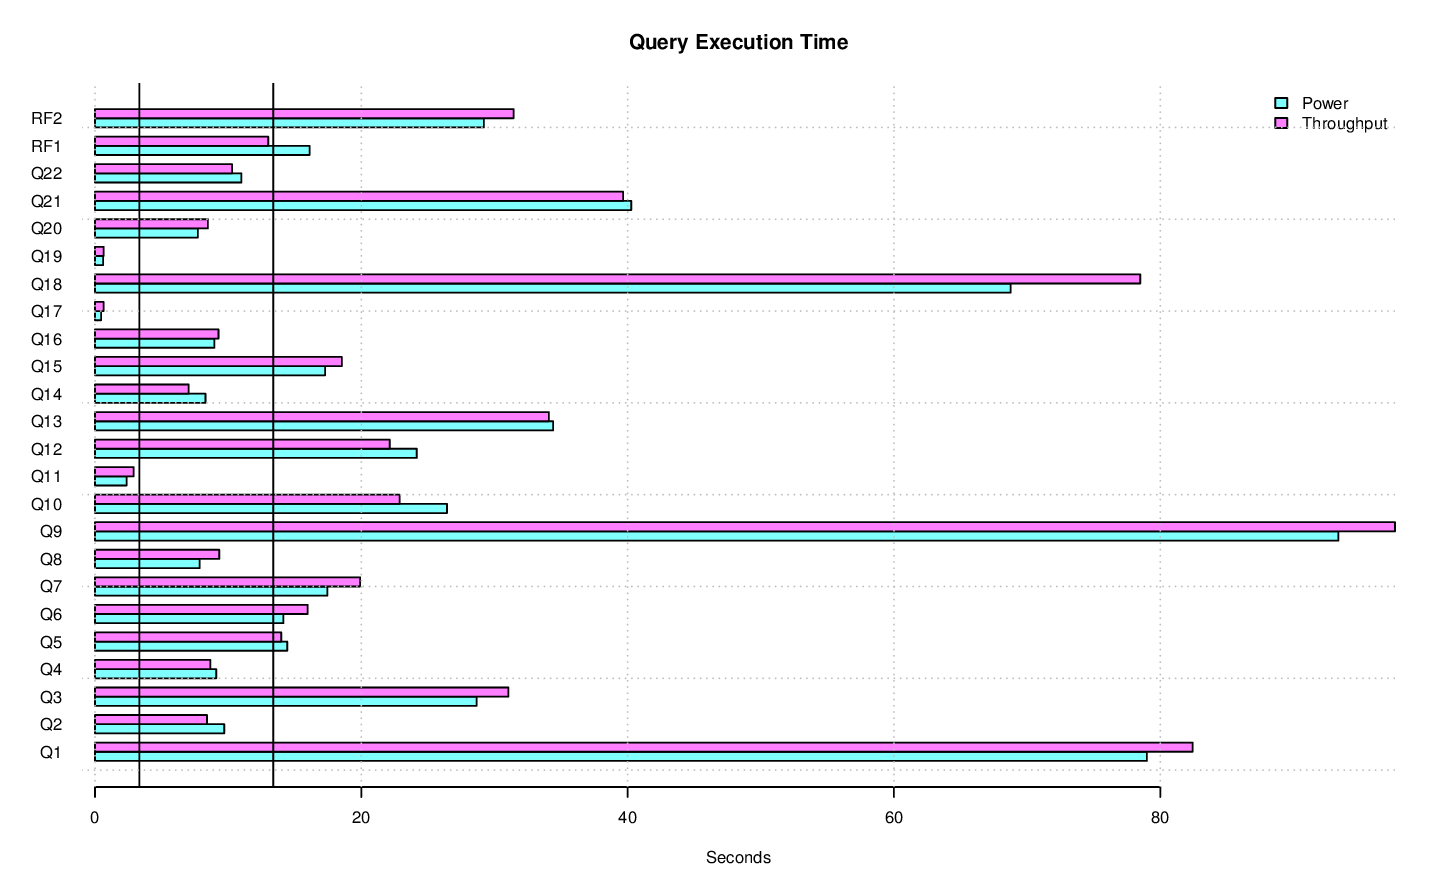
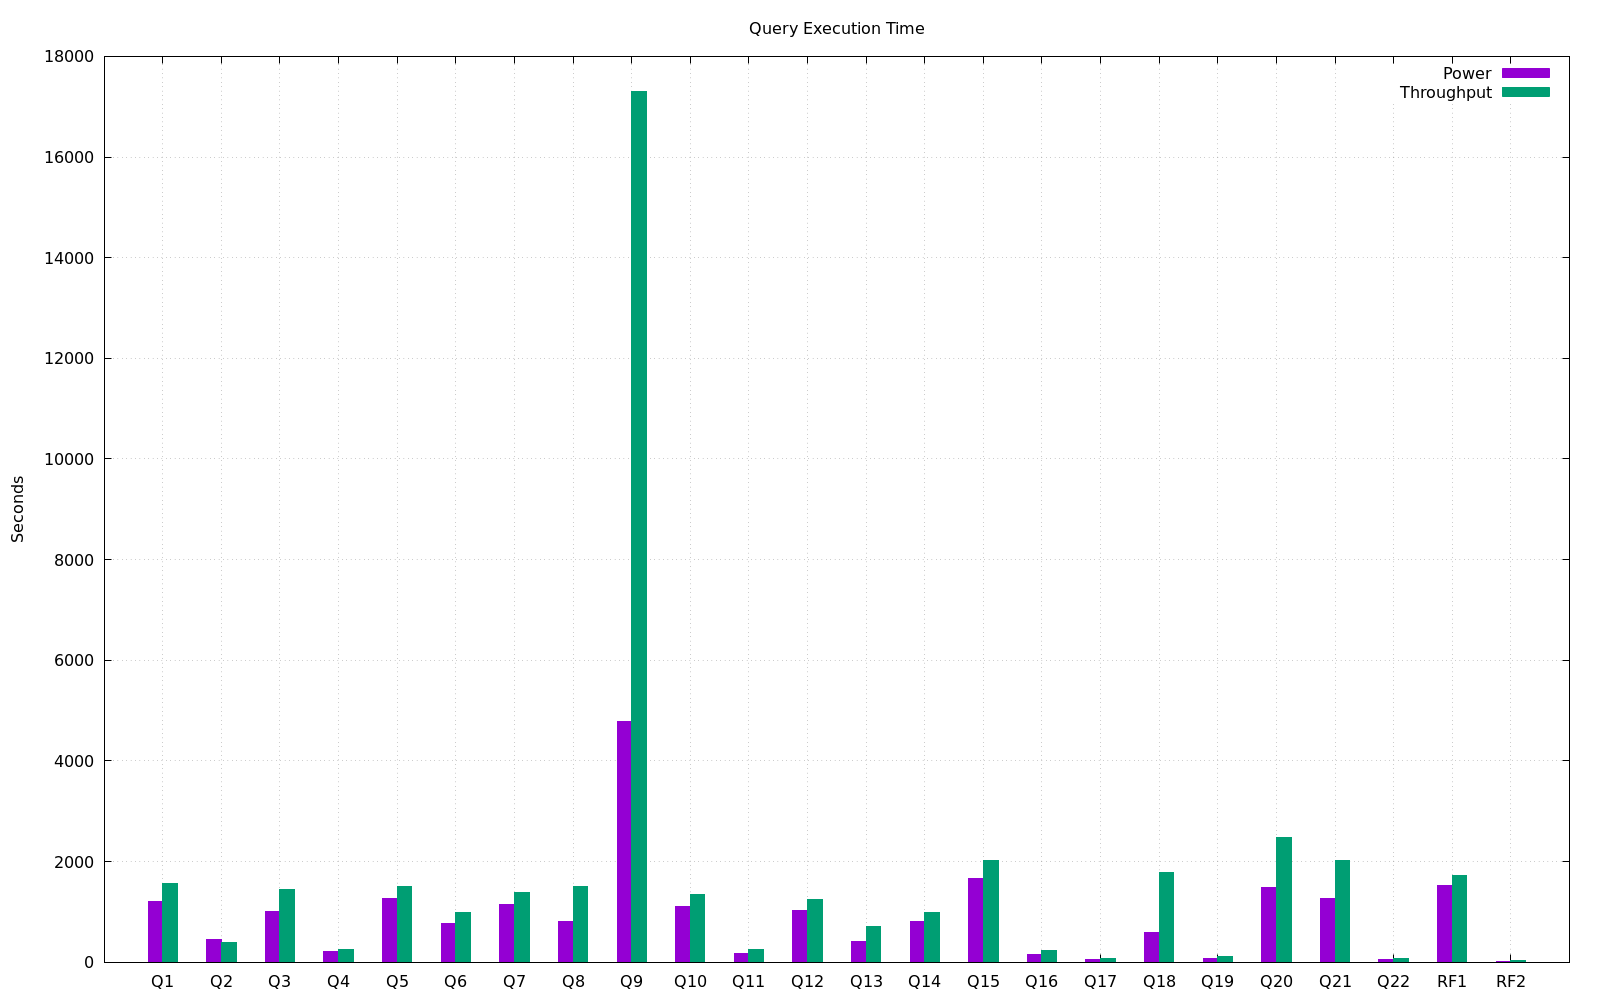
Convert plot-results to use gnuplot
Use gnuplot because it has fewer package dependencies than R on some
Linux distributions, and its license compatibility is better for
potential AppImages of the test kit.

diff --git a/doc/dbt3.rst b/doc/dbt3.rst
@@ -69,7 +69,6 @@ Required Software
 In addition to the DBMS software, the following is also required:
 
 * bc http://www.gnu.org/software/bc/bc.html
-* R http://www.r-project.org/
 * SQLite https://www.sqlite.org/index.html
 * **sar**, **pidstat** http://pagesperso-orange.fr/sebastien.godard/ (While the
   scripts assume this particular version of **sar** and **pidstat**, it is
